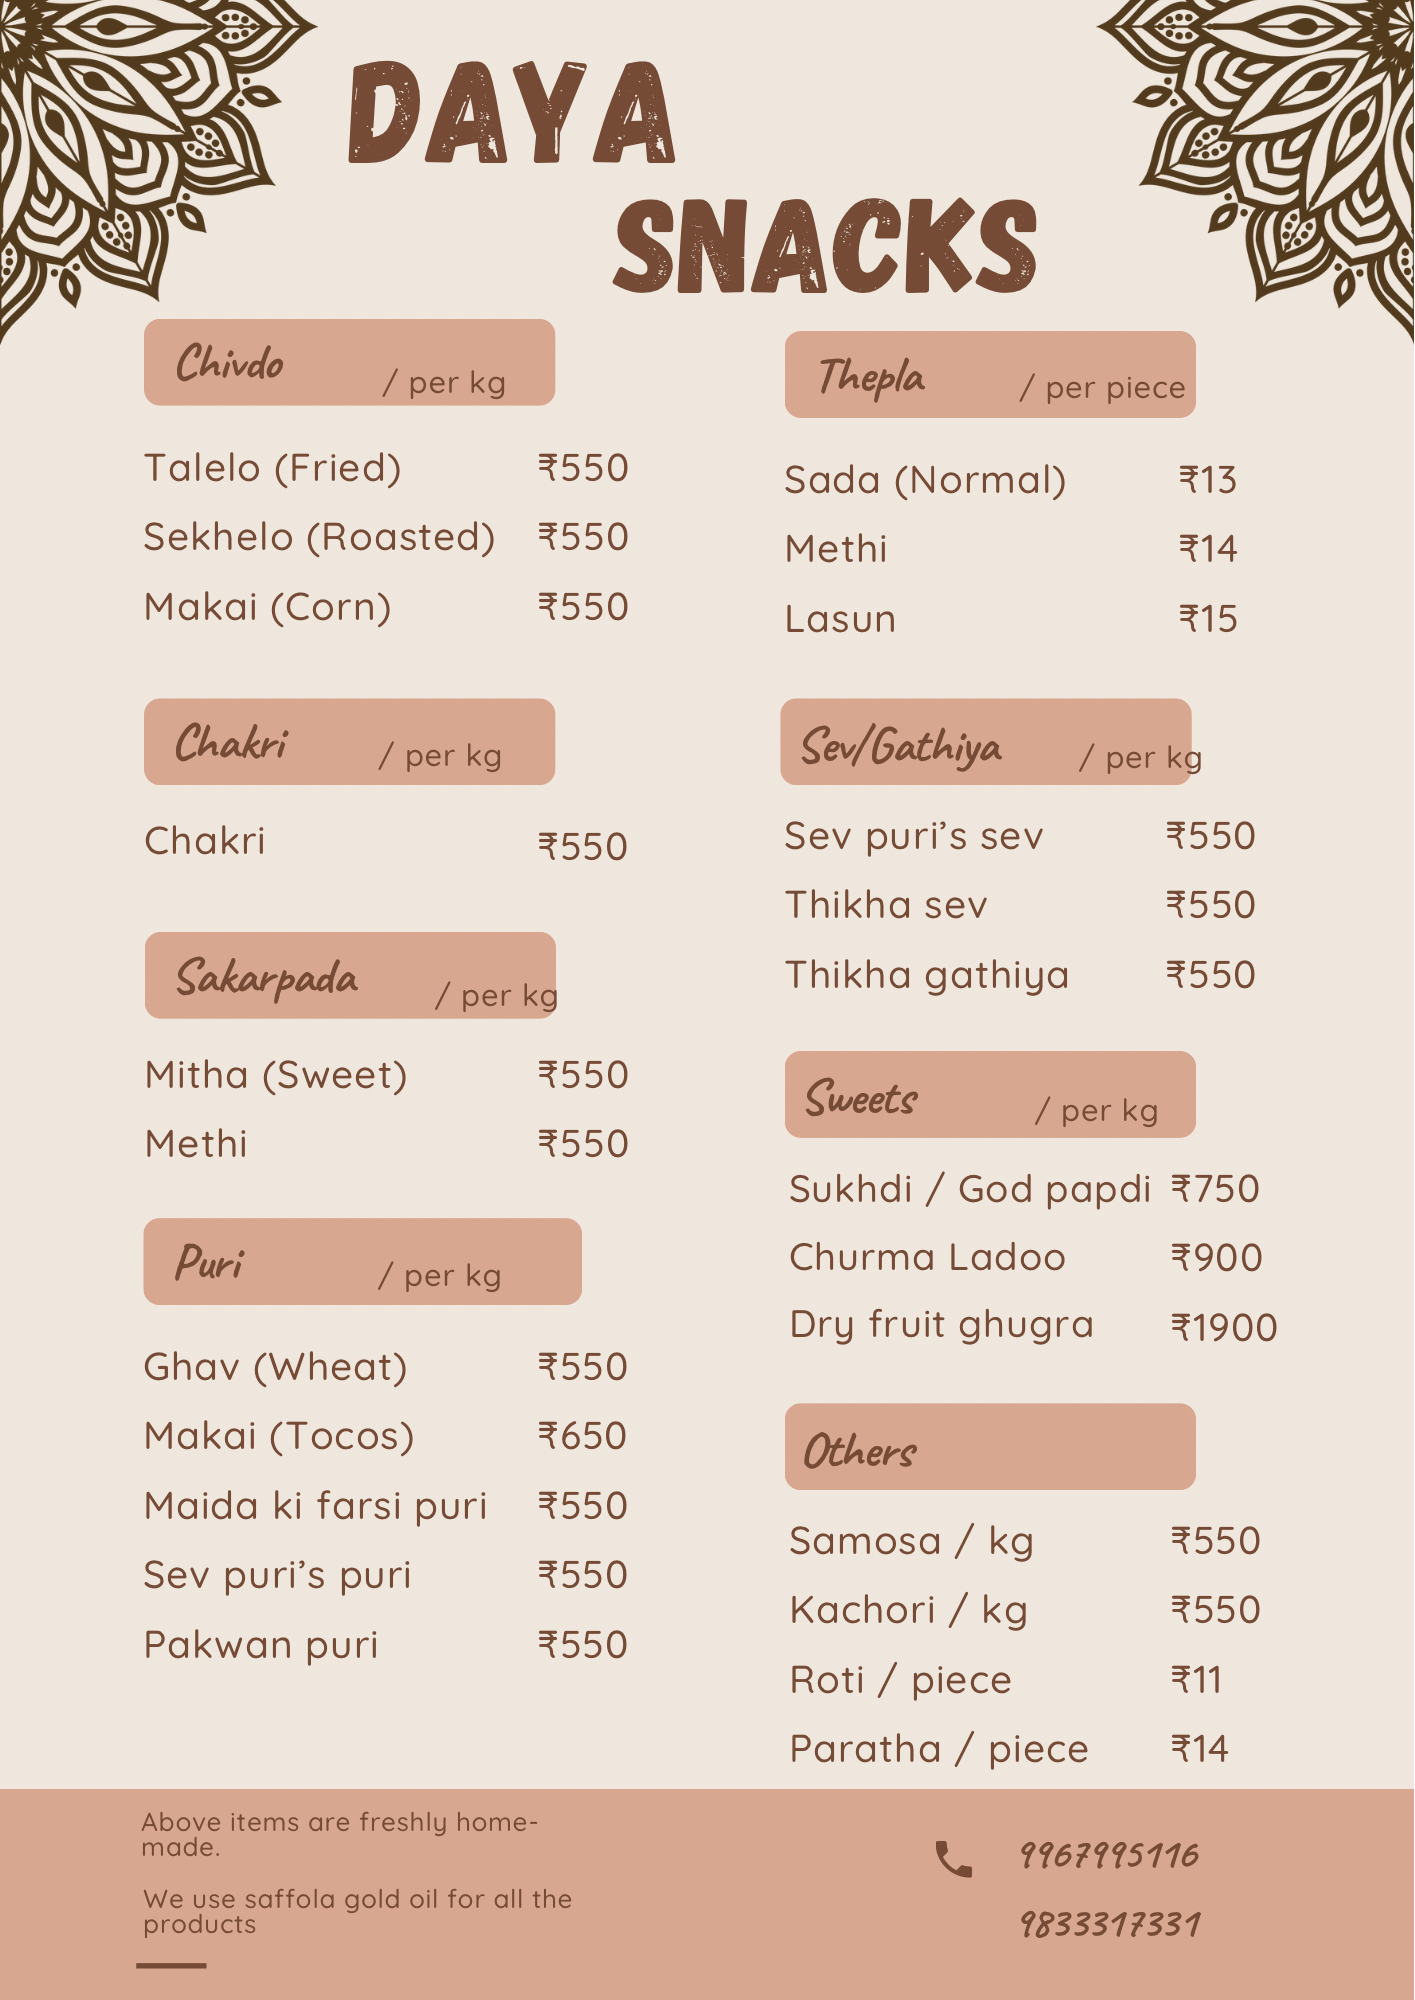
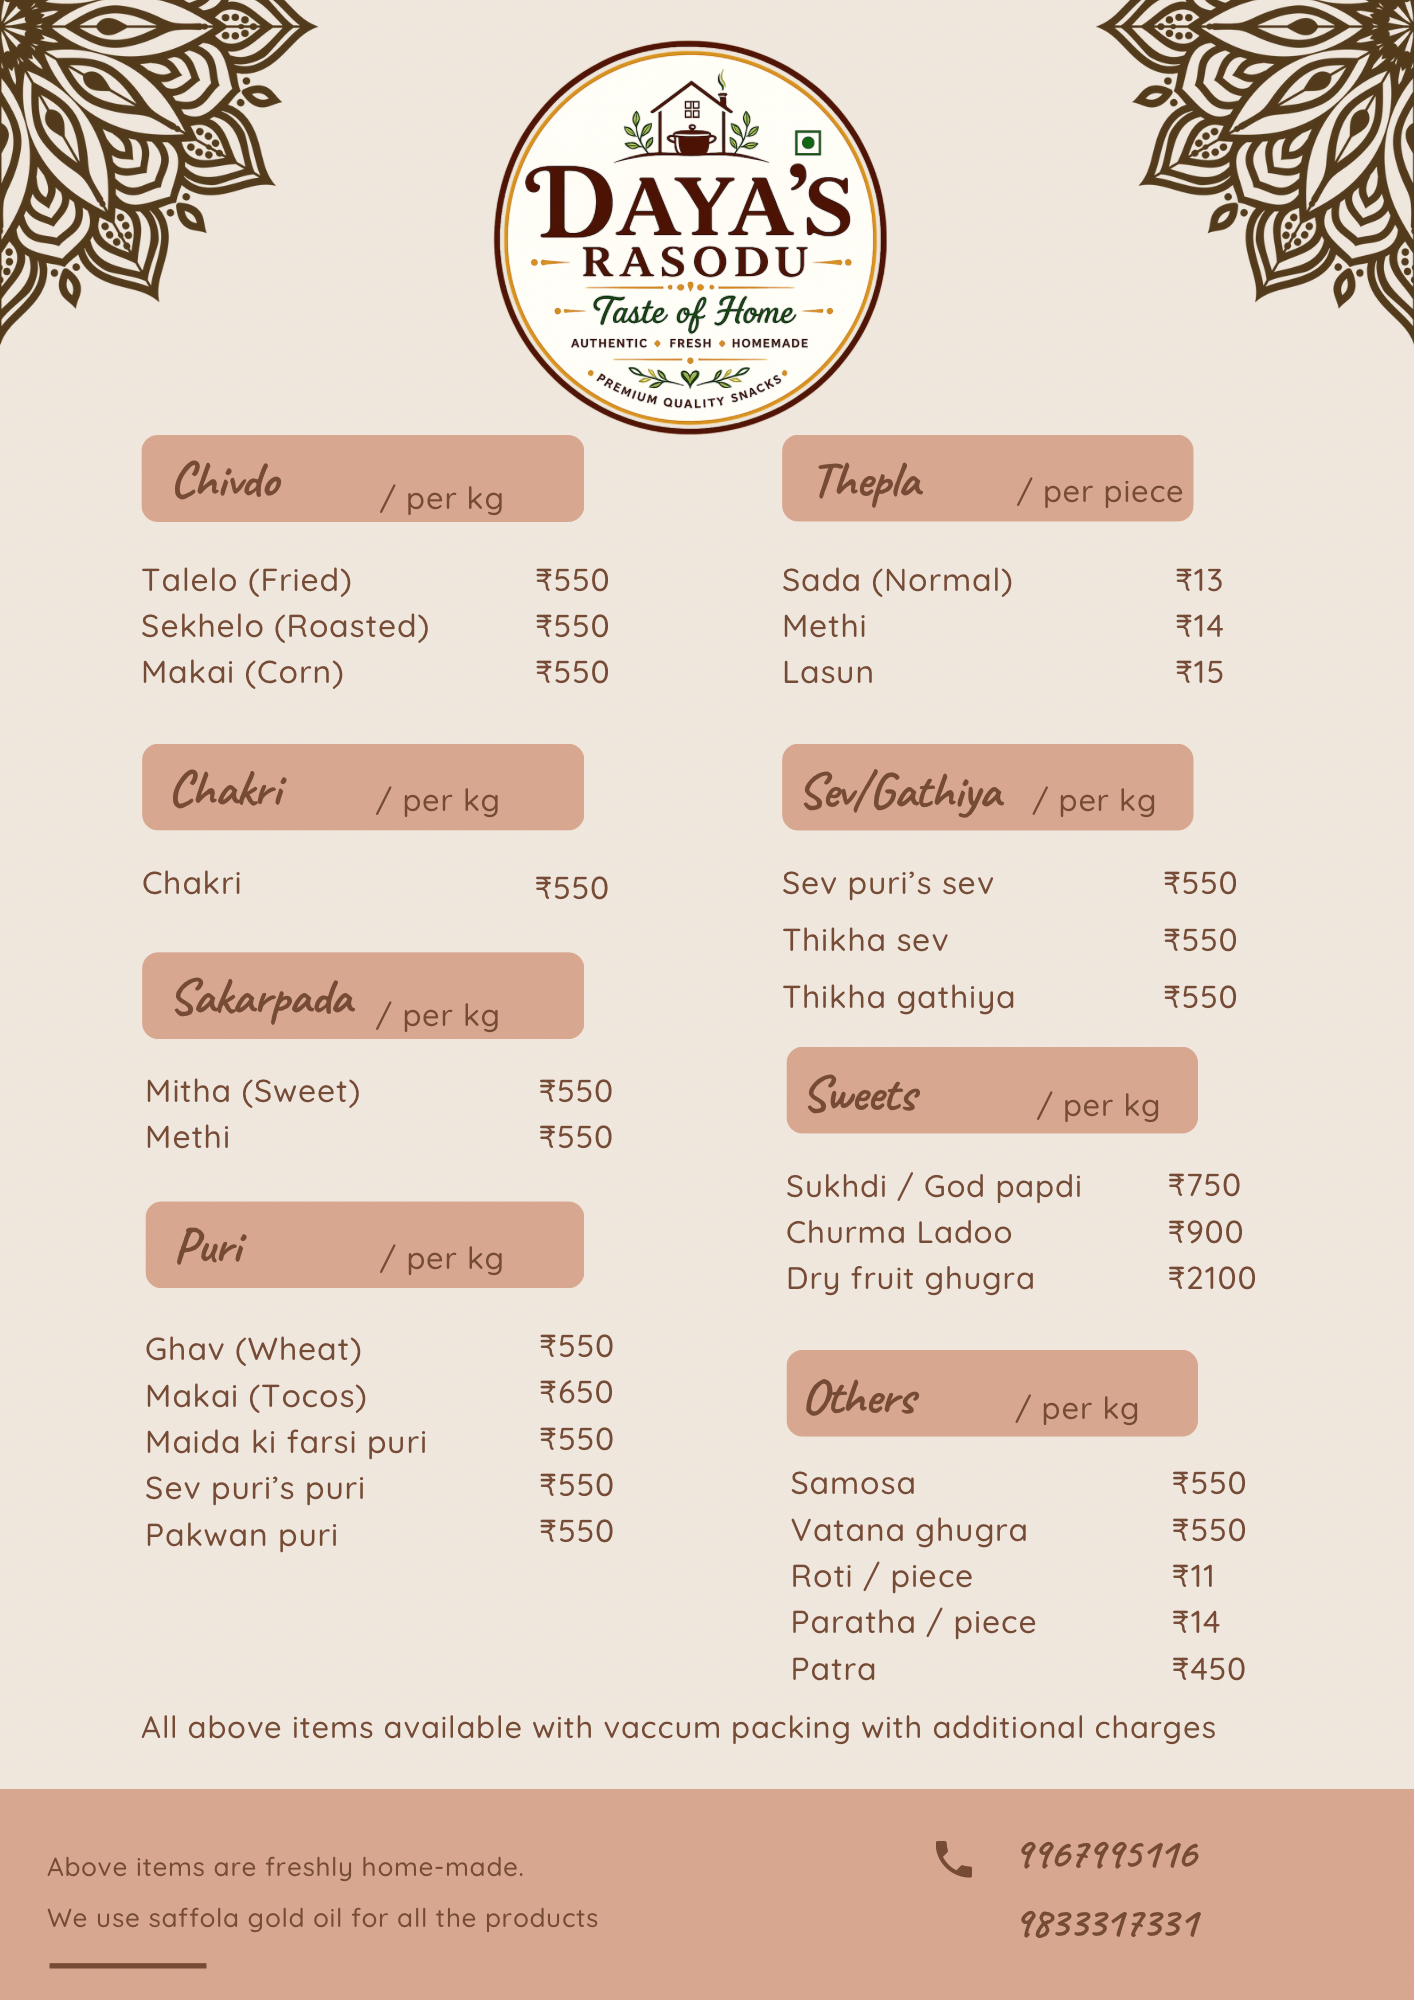
Updated images

Changed region(s): [[0.0933, 0.0, 0.9018, 0.899], [0.0311, 0.899, 0.4042, 0.992], [0.311, 0.837, 0.342, 0.868]]

diff --git a/index.html b/index.html
@@ -29,6 +29,6 @@
     }
   </style>
   <body>
-    <img src="./image.png" alt="Daya snacks" />
+    <img src="./image.png" alt="Daya's Rasudo" />
   </body>
 </html>
